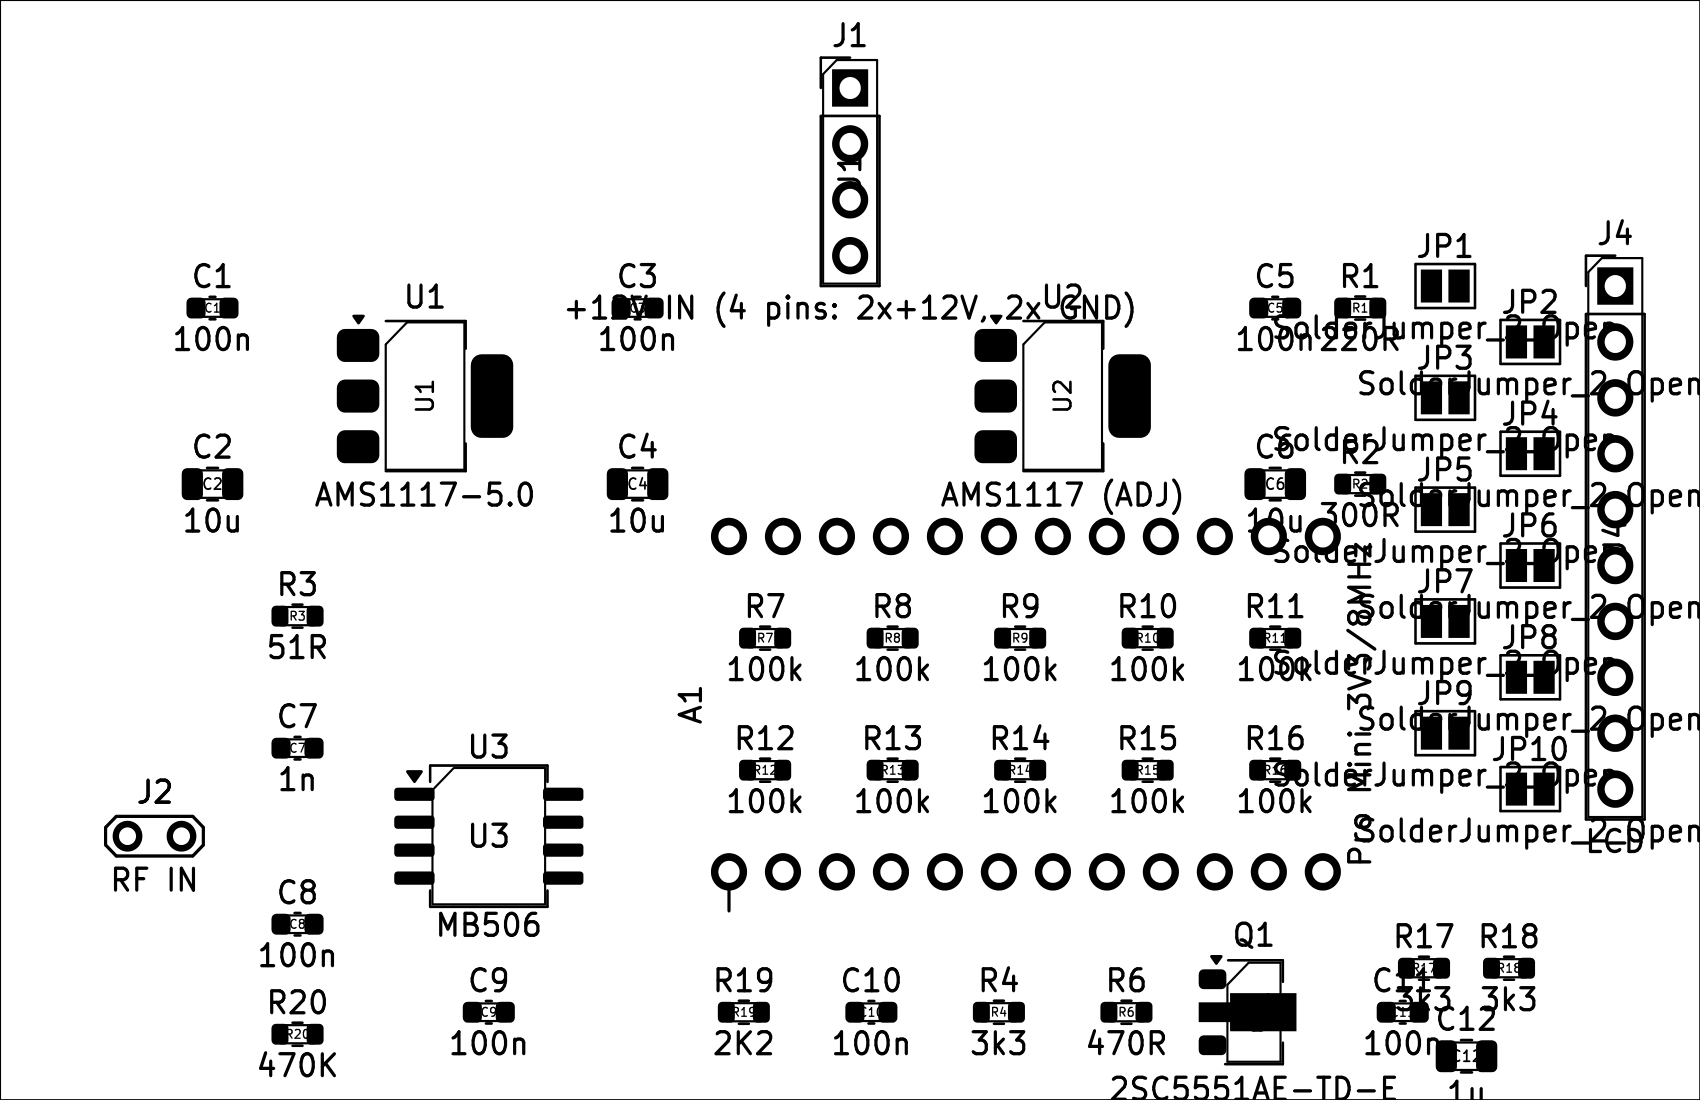
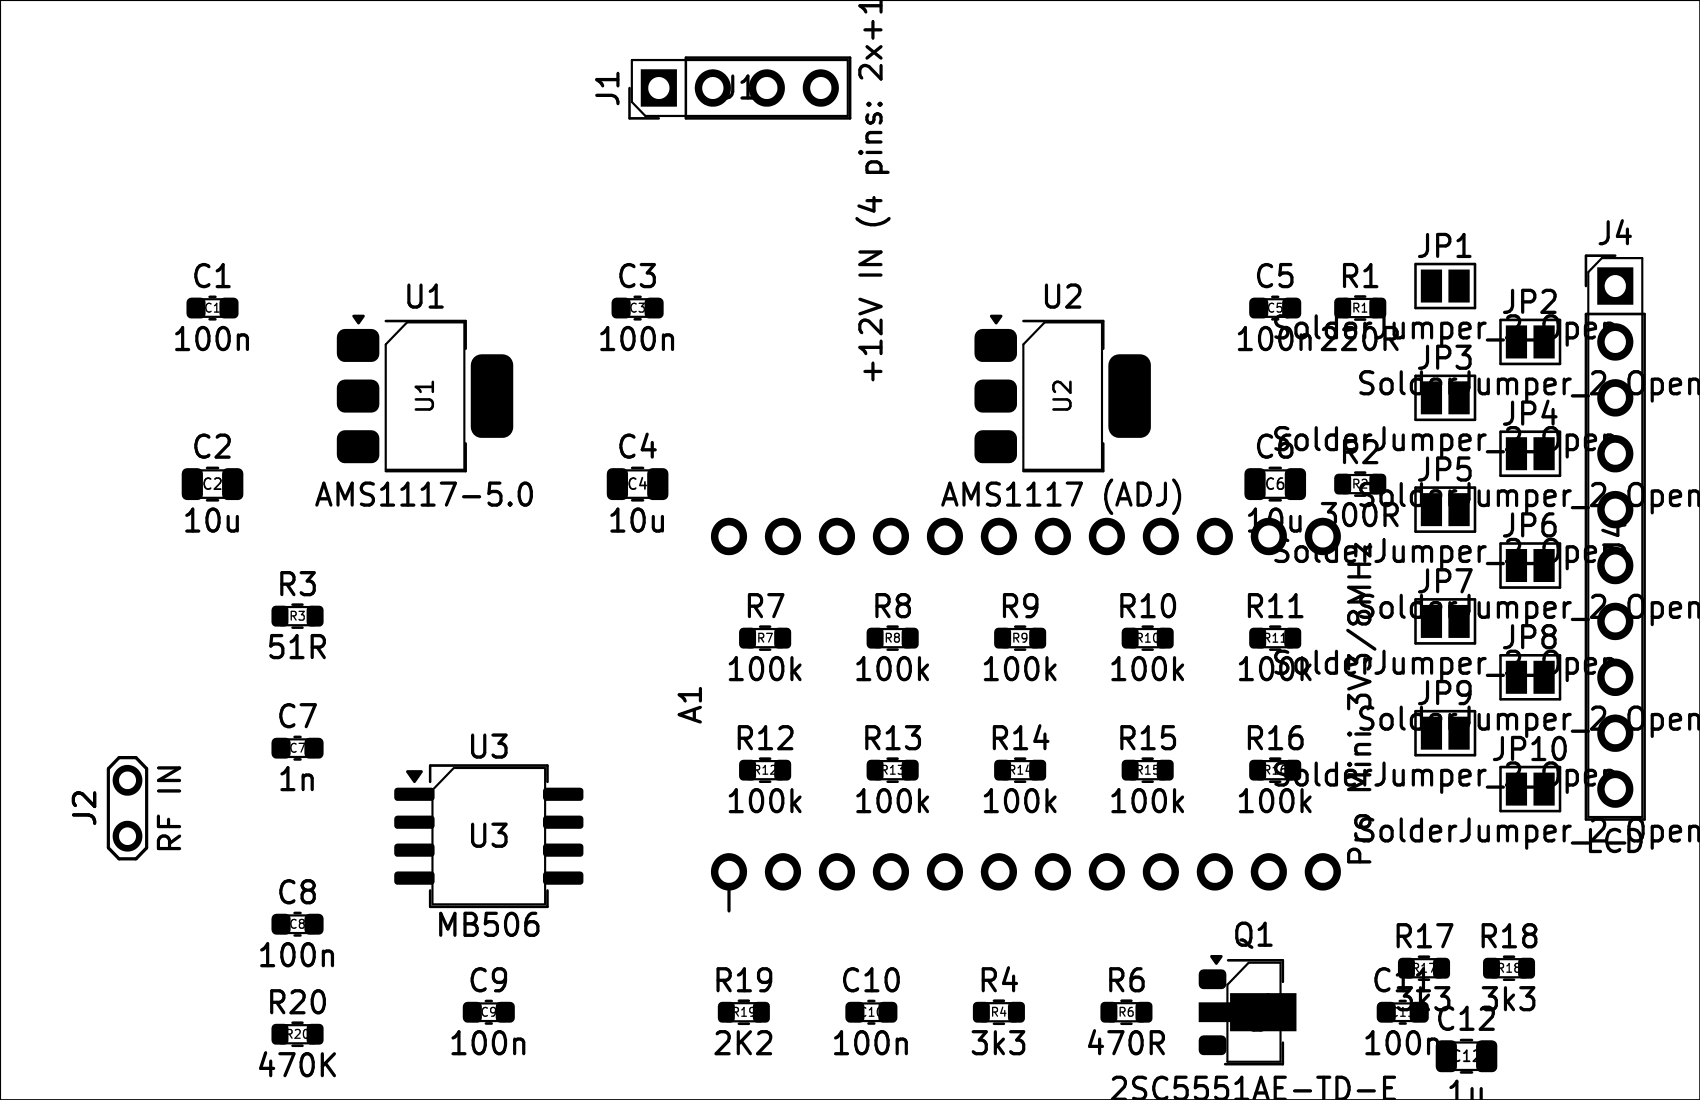
J1/J2 : broches paralleles au bord le plus proche (regle par defaut)
J1 (header 1x04, bord haut) et J2 (2 pastilles, bord gauche) avaient leurs
broches perpendiculaires au bord le plus proche (orientation par defaut du
footprint, non revue). Tourne a 90 degres chacun pour aligner la rangee de
broches parallelement au bord ; J1 repositionne en x pour eviter U1/U2 une
fois sa courtyard devenue plus large que haute. 0 erreur run_drc, 0
chevauchement courtyard (hors faux positifs connus sur A1).

Nouvelle regle par defaut ajoutee au skill kicad-pcb-placement : un
connecteur pres d'un bord se place broches paralleles a ce bord, sauf
orientation contraire explicitement demandee.

Claude-Session: https://claude.ai/code/session_017jkpXZgM5sH1vt8JFfAijf

Changed region(s): [[0.3429, 0.0, 0.5612, 0.34], [0.0312, 0.68, 0.1247, 0.8036], [0.5924, 0.2473, 0.6547, 0.3091]]

diff --git a/README.md b/README.md
@@ -338,8 +338,11 @@ Carte **80 × 50 mm**, paysage (hauteur réduite de 70 à 50 mm après le
 passage aux boîtiers CMS ci-dessous, qui a libéré de la place). Emplacements
 imposés par l'utilisateur :
 
-- `J1` (+12 V IN) : bord haut, au milieu.
-- `J2` (RF IN, coax à souder) : bord gauche.
+- `J1` (+12 V IN) : bord haut, au milieu, rangée de broches **parallèle**
+  au bord (rotation 90° par rapport à l'orientation par défaut du
+  footprint, qui les mettait perpendiculaires).
+- `J2` (RF IN, coax à souder) : bord gauche, rangée de broches parallèle au
+  bord (même correction de rotation).
 - `J4` (nappe LCD, header 2,54 mm) : bord droit.
 - `A1` (Arduino Pro Mini sur picots) : décalé de 3 mm vers la gauche par
   rapport au premier placement, toujours à droite et proche de `J4`,
@@ -349,6 +352,11 @@ imposés par l'utilisateur :
   dégagé entre les deux barrettes de picots — l'empreinte de `A1` ne porte
   que les deux courtyards des barrettes (voir « Arduino » ci-dessus), donc
   cet espace n'est pas signalé occupé.
+
+L'orientation « parallèle au bord le plus proche » pour `J1`/`J2` est
+désormais une règle par défaut du skill `kicad-pcb-placement` : elle
+s'applique à tout connecteur proche d'un bord, sauf orientation contraire
+explicitement demandée.
 
 Le reste (bloc d'alimentation, chaîne RF/prédiviseur, chemin de comptage,
 cavaliers `JP1`-`JP10`, `R17`/`R18`/`C12`) est réparti par proximité en
